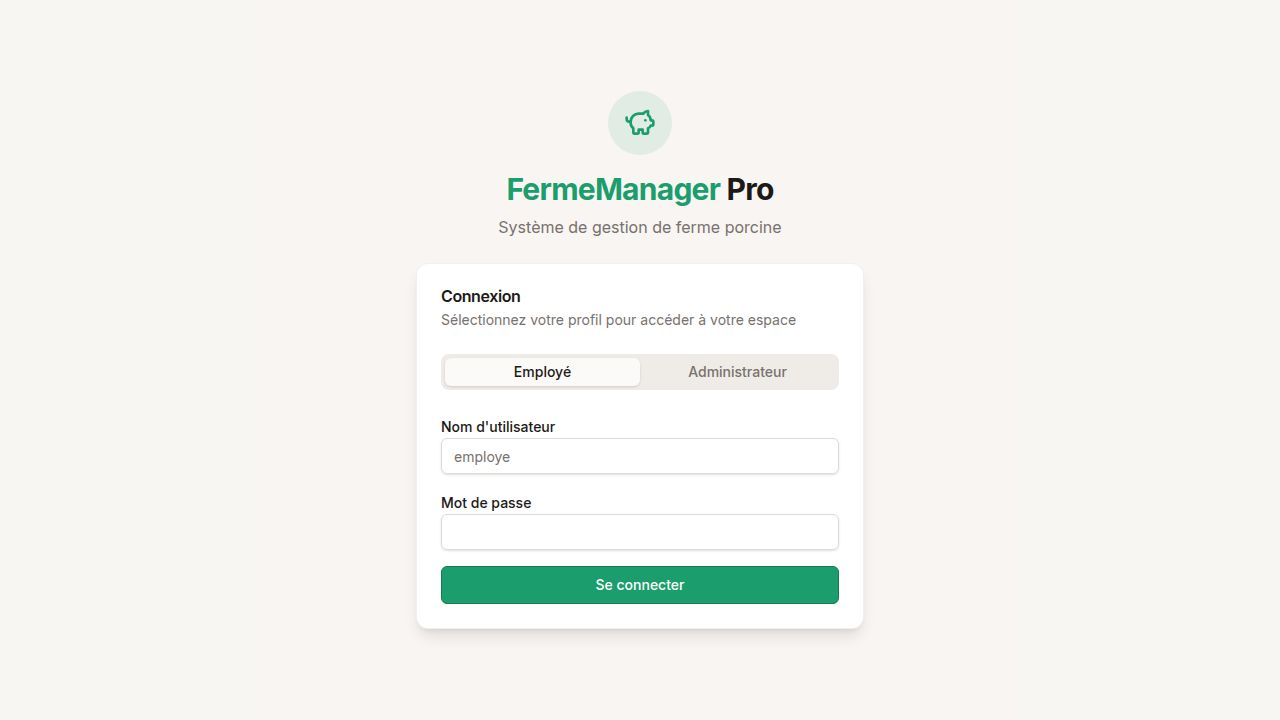
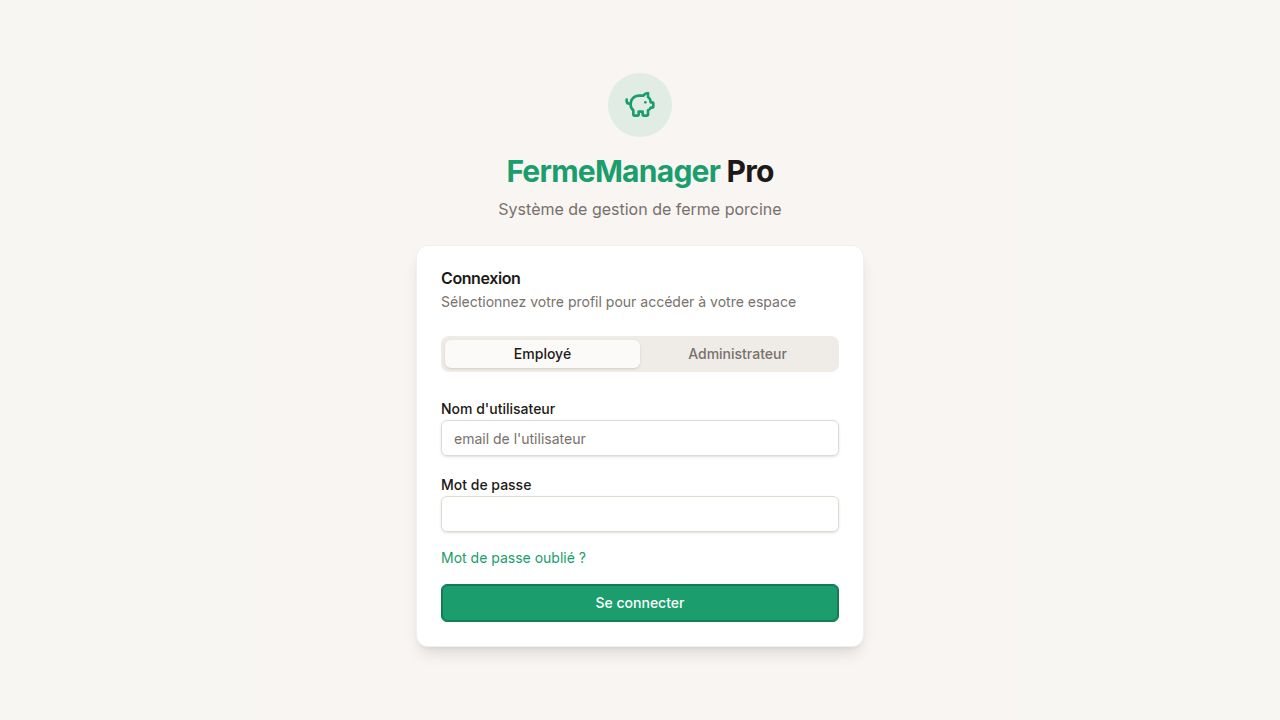
Add ability to send password reset codes via email
Integrates Resend for sending password reset codes to user emails via a new API endpoint.

Replit-Commit-Author: Agent
Replit-Commit-Session-Id: a937dfb2-775e-4887-87cf-dee7daa5a9f3
Replit-Commit-Checkpoint-Type: full_checkpoint
Replit-Commit-Event-Id: 7dc7dc63-ab56-4f22-9dad-3663fcd5b022
Replit-Commit-Screenshot-Url: https://storage.googleapis.com/screenshot-production-us-central1/4228f12c-b7df-43b0-b641-7c0cabbfd30a/a937dfb2-775e-4887-87cf-dee7daa5a9f3/EowXbBA
Replit-Helium-Checkpoint-Created: true

Changed region(s): [[0.3438, 0.3667, 0.625, 0.7333], [0.3125, 0.7333, 0.6875, 0.9167], [0.375, 0.0917, 0.625, 0.3361]]

diff --git a/artifacts/ferme-manager/src/pages/login.tsx b/artifacts/ferme-manager/src/pages/login.tsx
@@ -13,6 +13,8 @@ import { useToast } from "@/hooks/use-toast";
 const USER_STORAGE_KEY = "ferme_utilisateurs";
 const RESET_CODE_KEY = "ferme_admin_reset_code";
 
+const API_BASE = `${import.meta.env.BASE_URL}api`;
+
 type ResetStep = "request" | "verify" | "password";
 
 function loadUsers() {
@@ -82,7 +84,7 @@ export default function Login() {
     setConfirmPassword("");
   };
 
-  const handleForgot = (e?: React.FormEvent) => {
+  const handleForgot = async (e?: React.FormEvent) => {
     e?.preventDefault();
     if (!forgotUsername.trim()) {
       toast({ variant: "destructive", title: "Erreur", description: "Entrez votre nom d'utilisateur admin" });
@@ -95,8 +97,19 @@ export default function Login() {
     }
     const code = generateCode();
     localStorage.setItem(RESET_CODE_KEY, JSON.stringify({ username: creds.username, code, expiresAt: Date.now() + 10 * 60 * 1000 }));
+    try {
+      const targetEmail = `${creds.username}@example.com`;
+      const response = await fetch(`${API_BASE}/auth/reset-email`, {
+        method: "POST",
+        headers: { "Content-Type": "application/json" },
+        body: JSON.stringify({ email: targetEmail, code }),
+      });
+      if (!response.ok) throw new Error("email-failed");
+      toast({ title: "Code envoyé", description: `Le code a été envoyé à ${targetEmail}` });
+    } catch {
+      toast({ title: "Code généré", description: "L'envoi email a échoué, utilisez le code affiché dans le navigateur." });
+    }
     setResetStep("verify");
-    toast({ title: "Code envoyé", description: `Code à 5 chiffres généré pour ${creds.username}` });
   };
 
   const handleVerifyCode = (e?: React.FormEvent) => {

diff --git a/artifacts/api-server/src/routes/index.ts b/artifacts/api-server/src/routes/index.ts
@@ -27,4 +27,41 @@ router.use(veterinaireRouter);
 router.use(fournisseursRouter);
 router.use(budgetRouter);
 
+router.post("/auth/reset-email", async (req, res) => {
+  const apiKey = process.env.RESEND_API_KEY;
+  const { email, code } = req.body ?? {};
+
+  if (typeof email !== "string" || typeof code !== "string") {
+    res.status(400).json({ ok: false, error: "invalid-payload" });
+    return;
+  }
+
+  if (!apiKey) {
+    res.status(500).json({ ok: false, error: "missing-resend-key" });
+    return;
+  }
+
+  const response = await fetch("https://api.resend.com/emails", {
+    method: "POST",
+    headers: {
+      Authorization: `Bearer ${apiKey}`,
+      "Content-Type": "application/json",
+    },
+    body: JSON.stringify({
+      from: "FermeManager Pro <onboarding@resend.dev>",
+      to: [email],
+      subject: "Votre code de réinitialisation",
+      html: `<p>Votre code de réinitialisation est <strong>${code}</strong>.</p><p>Il expire dans 10 minutes.</p>`,
+    }),
+  });
+
+  if (!response.ok) {
+    const text = await response.text();
+    res.status(500).json({ ok: false, error: "resend-failed", detail: text });
+    return;
+  }
+
+  res.json({ ok: true });
+});
+
 export default router;
